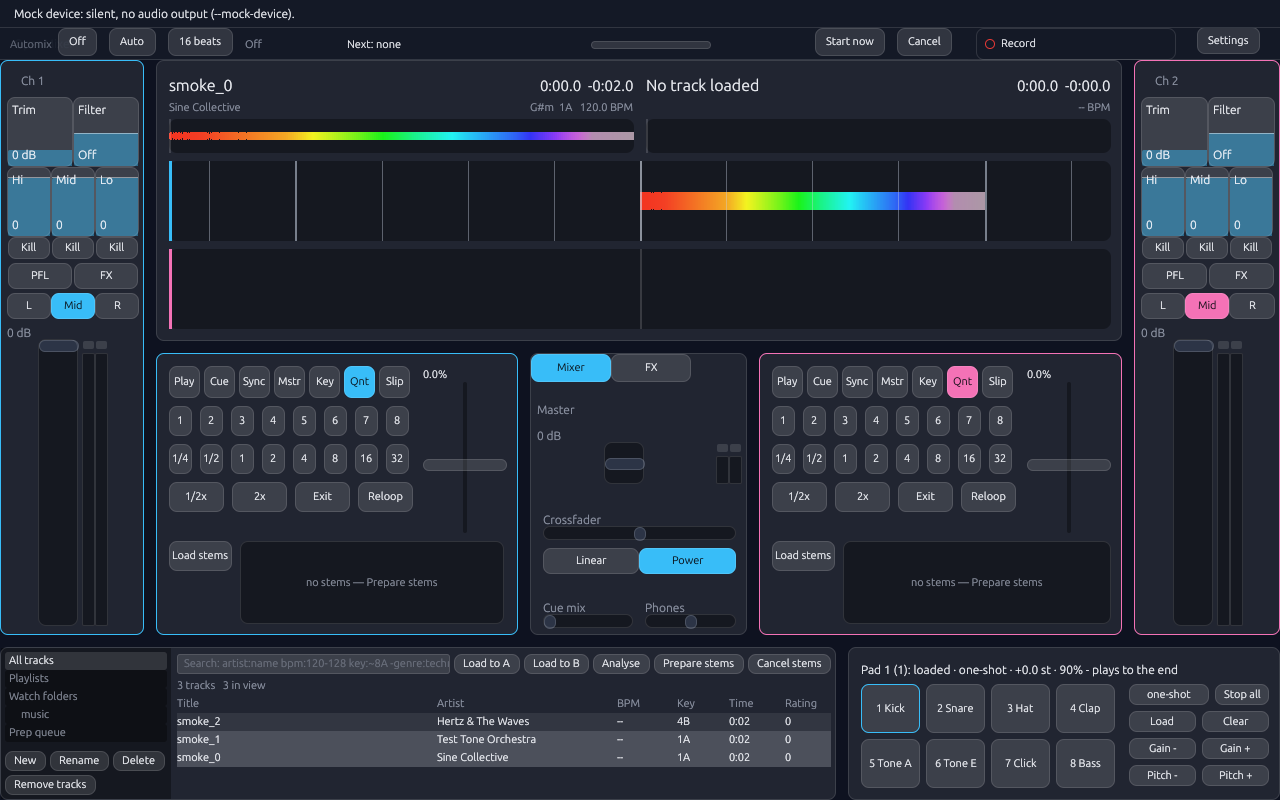
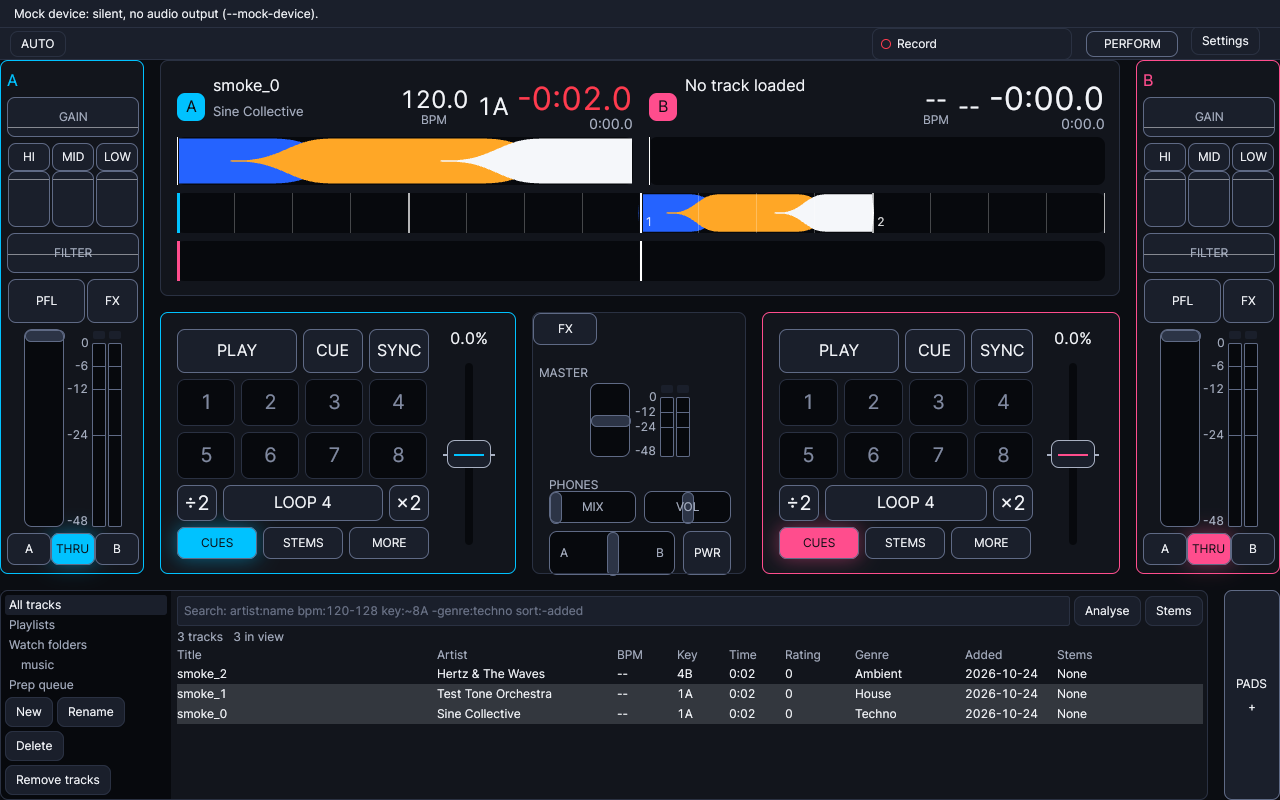
chore: refresh lockfile and dark screenshot, add known-gaps plan and graphify rebuild tool

diff --git a/tools/graphify_rebuild.py b/tools/graphify_rebuild.py
@@ -1,0 +1,202 @@
+#!/usr/bin/env python3
+"""Rebuild graphify-out/ with Rust `use` edges resolved to file nodes.
+
+graphify's Rust extractor records `use` targets as bare path segments (`super`, `om_core`,
+`atomic`), which match no node and are dropped when the graph is built (~1.5k edges here). This
+script re-resolves `crate::`, `super::`, `self::` and workspace-crate imports to module files, then
+rebuilds graph.json, GRAPH_REPORT.md and graph.html. Imports of std/external crates stay dropped.
+
+Run from anywhere with graphify's interpreter, after a `/graphify` run has cached the docs/images:
+  $(cat graphify-out/.graphify_python) tools/graphify_rebuild.py
+
+Community names come from graphify-out/community_labels.json ([{name, members}]); each new
+community takes the name of the saved one it overlaps most (Jaccard >= 0.3), else "Community N".
+Doc/image nodes come from graphify's semantic cache; uncached docs are skipped (re-run /graphify).
+Nested .gitignore/.graphifyignore files are ignored on purpose: graphify applies a nested `*`
+(e.g. .opencode/memory/.gitignore) to the whole tree and detects zero files. Community labels
+are matched by member overlap because ids change when edges change.
+"""
+import json
+import re
+import subprocess
+from pathlib import Path
+
+ROOT = Path(__file__).resolve().parents[1]
+SKIP_DIRS = {"target", ".claude", "graphify-out", "node_modules"}
+
+
+def node_id(rel):
+    return re.sub(r"[^a-z0-9]+", "_", str(Path(rel).with_suffix("")).lower()).strip("_")
+
+
+def crate_map():
+    crates = {}
+    for toml in ROOT.glob("**/Cargo.toml"):
+        if SKIP_DIRS & set(toml.relative_to(ROOT).parts):
+            continue
+        m = re.search(r'^\s*name\s*=\s*"([^"]+)"', toml.read_text(), re.M)
+        if m and (toml.parent / "src").is_dir():
+            crates[m.group(1).replace("-", "_")] = toml.parent / "src"
+    return crates
+
+
+def crate_src(path):
+    for p in path.parents:
+        if p == ROOT:
+            break
+        if (p / "Cargo.toml").exists() and (p / "src").is_dir():
+            return p / "src"
+    return None
+
+
+def module_path(path, src):
+    parts = list(path.relative_to(src).with_suffix("").parts)
+    if parts and parts[-1] in ("mod", "lib", "main"):
+        parts.pop()
+    return parts
+
+
+def resolve_mod(src, segs):
+    """Deepest module file reached by walking segs from the crate root."""
+    cur, found = src, None
+    for s in segs:
+        if (cur / f"{s}.rs").is_file():
+            found, cur = cur / f"{s}.rs", cur / s
+        elif (cur / s / "mod.rs").is_file():
+            found, cur = cur / s / "mod.rs", cur / s
+        else:
+            break
+    if found:
+        return found
+    return next((src / n for n in ("lib.rs", "main.rs") if (src / n).is_file()), None)
+
+
+class Resolver:
+    def __init__(self):
+        self.crates = crate_map()
+        self.lines = {}
+
+    def use_path(self, path, line):
+        ls = self.lines.setdefault(path, path.read_text(errors="ignore").splitlines())
+        buf = ""
+        for i in range(line - 1, min(len(ls), line + 60)):
+            code = ls[i].split("//")[0]
+            buf += " " + code
+            if ";" in code:
+                break
+        m = re.search(r"\buse\s+(?:::)?([\w:]+)", buf)
+        return m.group(1).split("::") if m else None
+
+    def resolve(self, edge):
+        if not edge.get("source_file", "").endswith(".rs"):
+            return None
+        f = ROOT / edge["source_file"]
+        src = crate_src(f)
+        try:
+            line = int(edge["source_location"].lstrip("L"))
+            segs = self.use_path(f, line)
+        except (ValueError, AttributeError, OSError):
+            return None
+        if src is None or not segs:
+            return None
+        head, rest = segs[0], segs[1:]
+        in_src = str(f).startswith(str(src))
+        if head in ("crate", "self", "super"):
+            if not in_src:
+                return None
+            mp = module_path(f, src)
+            base, tsrc = ([], src) if head == "crate" else (mp, src)
+            if head == "super":
+                base = mp[:-1]
+                while rest and rest[0] == "super":
+                    base, rest = base[:-1], rest[1:]
+        elif head in self.crates:
+            base, tsrc = [], self.crates[head]
+        else:
+            return None
+        t = resolve_mod(tsrc, base + rest)
+        return node_id(t.relative_to(ROOT)) if t else None
+
+
+def load_labels(com):
+    """Name each community after the saved label whose members overlap it most."""
+    labels = {c: f"Community {c}" for c in com}
+    path = ROOT / "graphify-out" / "community_labels.json"
+    if not path.is_file():
+        return labels
+    saved = [(e["name"], set(e["members"])) for e in json.loads(path.read_text())]
+    taken = set()
+    pairs = []
+    for c, members in com.items():
+        ms = set(members)
+        for i, (_, old) in enumerate(saved):
+            j = len(ms & old) / len(ms | old)
+            if j >= 0.3:
+                pairs.append((j, c, i))
+    for _, c, i in sorted(pairs, reverse=True):
+        if labels[c].startswith("Community ") and i not in taken:
+            labels[c] = saved[i][0]
+            taken.add(i)
+    return labels
+
+
+def main():
+    from graphify import detect as D
+    from graphify.analyze import god_nodes, suggest_questions, surprising_connections
+    from graphify.build import build_from_json
+    from graphify.cache import check_semantic_cache
+    from graphify.cluster import cluster, score_all
+    from graphify.export import to_json
+    from graphify.extract import extract
+    from graphify.report import generate
+
+    own = D._load_dir_own_ignore
+    D._load_dir_own_ignore = lambda d: own(d) if d.resolve() == ROOT else []
+    det = D.detect(ROOT)
+    ast = extract([Path(f) for f in det["files"]["code"]], cache_root=ROOT)
+
+    ids = {n["id"] for n in ast["nodes"]}
+    res, seen, edges = Resolver(), set(), []
+    fixed = dropped = 0
+    for e in ast["edges"]:
+        if e["target"] in ids:
+            edges.append(e)
+            continue
+        t = res.resolve(e)
+        if t in ids:
+            key = (e["source"], t, e["relation"], e.get("source_location"))
+            if key not in seen:
+                seen.add(key)
+                edges.append(dict(e, target=t))
+                fixed += 1
+        else:
+            dropped += 1
+    print(f"imports: {fixed} resolved, {dropped} external/unresolvable dropped")
+
+    docs = [f for c in ("document", "paper", "image") for f in det["files"].get(c, [])]
+    sn, se, sh, uncached = check_semantic_cache(docs, root=str(ROOT))
+    if uncached:
+        print(f"warning: {len(uncached)} docs/images not cached; run /graphify to extract them")
+    nodes = list(ast["nodes"])
+    have = set(ids)
+    nodes += [n for n in sn if n["id"] not in have and not have.add(n["id"])]
+    ex = {"nodes": nodes, "edges": edges + se, "hyperedges": sh, "input_tokens": 0, "output_tokens": 0}
+
+    out = ROOT / "graphify-out"
+    G = build_from_json(ex, root=str(ROOT), directed=False)
+    if G.number_of_nodes() == 0:
+        raise SystemExit("empty graph")
+    com = cluster(G)
+    labels = load_labels(com)
+    if not to_json(G, com, str(out / "graph.json")):
+        raise SystemExit("refused to shrink graph.json")
+    report = generate(G, com, score_all(G, com), labels, god_nodes(G), surprising_connections(G, com),
+                      det, {"input": 0, "output": 0}, str(ROOT),
+                      suggested_questions=suggest_questions(G, com, labels))
+    (out / "GRAPH_REPORT.md").write_text(report, encoding="utf-8")
+    print(f"graph: {G.number_of_nodes()} nodes, {G.number_of_edges()} edges, {len(com)} communities")
+    subprocess.run(["graphify", "export", "html"], cwd=ROOT, check=False)
+
+
+if __name__ == "__main__":
+    main()

diff --git a/docs/superpowers/plans/2026-10-26-known-gaps.md b/docs/superpowers/plans/2026-10-26-known-gaps.md
@@ -1,0 +1,196 @@
+# Known Gaps Implementation Plan
+
+> \*\*For agentic workers:\*\* REQUIRED SUB-SKILL: Use superpowers:subagent-driven-development (recommended). Steps use checkbox (`- \[ ]`) syntax for tracking.
+
+**Goal:** Close the known gaps that can be built and verified headlessly: a scheduled soak job, automix and auto-enqueue analysis handling, playlist reorder and folders in the UI, artwork display, restyled scroll bars, tables and toggles, an FFmpeg decode fallback, and C-ABI plugin loading, then one docs sync.
+
+**Architecture:** Each task is an independent workstream with its own file ownership, so agents can run in parallel in separate worktrees. Library, engine and view-model logic is built and tested first; the gpui layer only draws from it. Tasks 7 and 8 sit behind an explicit decision gate.
+
+**Tech Stack:** Rust workspace (`crates/om-\*`, `crates/openmixer`), rusqlite (`om-library`), GPUI (`om-ui-gpui`), symphonia (`om-engine`), GitHub Actions (`.github/workflows/rust.yml`).
+
+**Spec:** `ROADMAP.md` ("Known gaps"), `README.md` ("Known gaps, honestly listed"), `TODO.md` sections (A) to (C), `docs/spikes/DECISIONS.md` ("Plugins: in-process only").
+
+## Global Constraints
+
+* Linux is the required signal. Do not add tests that need audio hardware, a display, or the network.
+* Every task ends with `cargo fmt --check`, `cargo clippy --workspace --all-targets -- -D warnings` and `cargo test -p <touched crates>` green.
+* Test-first. Commit per task, message style `feat:`/`fix:`/`docs:`/`ci:`, with the Co-Authored-By trailer.
+* Colours and sizes come from `ThemeTokens` via `om\_ui::style::LookAndFeel`; no literals in gpui files (see "Styling a control" in `agents.md`).
+* Licences: any new dependency must pass `cargo deny` (project is AGPL-3.0).
+* Do not edit `README.md`, `ROADMAP.md`, `TODO.md` or `docs/PROGRESS.md` in tasks 2-9; Task 10 updates them once at the end, so parallel agents never conflict on them.
+* Do not touch files owned by another task (see each task's **Files**). Rebase on `feat/ui-redesign` before the final commit.
+
+## Review Focus
+
+* A track that is never analysed (corrupt file, analysis error): automix and auto-enqueue must give up after a bounded number of tries, not wait or re-enqueue forever (Tasks 3, 4).
+* Moving a playlist folder into its own descendant must be refused, not corrupt the tree or loop (Task 5).
+* Reordering an entry to index 0, to the last index, and to an out-of-range index clamps and keeps positions contiguous (Task 5).
+* A track with no artwork, or artwork the image decoder rejects, shows the placeholder and never panics (Task 6).
+* A file ffmpeg cannot decode, or a machine with no `ffmpeg` binary, returns a typed error and leaves the symphonia path unchanged (Task 7).
+* A plugin library with the wrong ABI version, a missing entry point, or a panicking `on\_load` is skipped with a reason and does not take the host down (Task 8).
+
+\---
+
+### Task 2: Scheduled soak job in CI
+
+**Files:**
+
+* Modify: `.github/workflows/rust.yml`
+
+**Interfaces:**
+
+* Consumes: the `#\[ignore]` soaks `cargo test -p om-audio --test soak -- --ignored --nocapture` (`crates/om-audio/tests/soak.rs:321`) and `cargo test -p openmixer --test ui\_gate -- --ignored` (`crates/openmixer/tests/ui\_gate.rs:287`).
+* Produces: a `soak` job on `schedule` (weekly) and `workflow\_dispatch`.
+* \[ ] **Step 1:** Add `schedule: - cron: "0 3 \* \* 0"` and `workflow\_dispatch:` to `on:`. Keep existing triggers unchanged.
+* \[ ] **Step 2:** Add job `soak` (ubuntu-latest, `timeout-minutes: 40`, `if: github.event\_name != 'pull\_request' \&\& github.event\_name != 'push'`) running both ignored tests, copying the toolchain and cache steps from the `check` job.
+* \[ ] **Step 3:** Validate: `python3 -c "import yaml,sys; yaml.safe\_load(open('.github/workflows/rust.yml'))"`; confirm the `check` job's `if`/triggers are untouched with `git diff`. Expected: valid YAML, diff only adds.
+* \[ ] **Step 4:** Commit `ci: scheduled 10-minute soaks`.
+
+### Task 3: Automix waits for unanalysed tracks
+
+**Files:**
+
+* Modify: `crates/om-automix/src/queue.rs`, `crates/openmixer/src/automix\_queue.rs`
+* Test: `crates/om-automix/src/queue.rs` (unit tests, existing style), `crates/openmixer/tests/automix\_rig/mod.rs`
+
+**Interfaces:**
+
+* Consumes: `select\_next(...) -> Selection` where `Selection.skipped: Vec<(i64, SkipReason)>` and `SkipReason::NotAnalysed`; `PrepQueue` in `crates/om-library/src/prep\_queue.rs`.
+* Produces: `Selection.needs\_analysis: Vec<i64>` (track ids skipped as `NotAnalysed`, in candidate order) and `LibraryQueue::pending\_analysis(\&self) -> \&\[i64]`. `LibraryQueue` submits those ids to the prep queue once per id per session and retries them on the next `next\_track` call.
+* \[ ] **Step 1:** Write failing test `unanalysed\_candidates\_are\_reported\_for\_analysis` in `queue.rs`: tracks 4 and 6 unanalysed, 5 analysed; assert `sel.needs\_analysis == vec!\[4, 6]` and that `sel.track` is 5.
+* \[ ] **Step 2:** Run `cargo test -p om-automix unanalysed\_candidates` ; expect FAIL (field missing).
+* \[ ] **Step 3:** Add `needs\_analysis` to `Selection` in `crates/om-automix/src/queue.rs`, filled where `SkipReason::NotAnalysed` is pushed (line \~138). Run the test; expect PASS.
+* \[ ] **Step 4:** Failing test in the automix rig, `queue\_submits\_unanalysed\_tracks\_once`: a library where every track is unanalysed; call `next\_track` three times; assert the prep queue holds each id exactly once and `pending\_analysis()` lists them. Then mark one analysed and assert the next call returns it.
+* \[ ] **Step 5:** Implement the submit-once set and retry in `LibraryQueue` (`crates/openmixer/src/automix\_queue.rs`). Give up on an id after 3 submissions and add it to `last\_error()` text. Run `cargo test -p openmixer automix`; expect PASS.
+* \[ ] **Step 6:** Commit `feat: automix requests analysis for tracks it had to skip`.
+
+### Task 4: Auto-enqueue after a library scan
+
+**Files:**
+
+* Modify: `crates/om-library/src/ingest.rs`, `crates/om-library/src/prep\_queue.rs` (only if a bulk helper is needed)
+* Test: `crates/om-library/tests/library\_prep\_queue.rs`
+
+**Interfaces:**
+
+* Consumes: `ingest\_folder(...)` in `crates/om-library/src/ingest.rs:72` and its report; the prep queue API in `prep\_queue.rs` (read it first: use its existing enqueue method, do not add a second path).
+* Produces: after a successful `ingest\_folder`, every track the scan inserted or changed and that has no analysis is enqueued, exactly once; `IngestReport` gains `enqueued: usize`.
+* \[ ] **Step 1:** Failing test `scan\_enqueues\_new\_unanalysed\_tracks\_once` in `library\_prep\_queue.rs`: ingest a temp folder with 3 generated files (fixture helpers in `om-testing`), assert queue length 3 and `report.enqueued == 3`; ingest again, assert still 3 and `enqueued == 0`.
+* \[ ] **Step 2:** Run `cargo test -p om-library --test library\_prep\_queue scan\_enqueues`; expect FAIL.
+* \[ ] **Step 3:** Enqueue inside the ingest transaction's success path; skip tracks already queued or analysed. Run the test; expect PASS.
+* \[ ] **Step 4:** Add test `scan\_of\_missing\_folder\_enqueues\_nothing` (non-directory path errors, queue empty). Expect PASS.
+* \[ ] **Step 5:** Commit `feat: library scan enqueues new tracks for analysis`.
+
+### Task 5: Playlist reorder and nested folders in the UI
+
+**Files:**
+
+* Modify: `crates/om-ui/src/library/browser.rs`, `crates/om-ui/src/sidebar.rs`, `crates/om-ui/src/library/services.rs`, `crates/om-library/src/playlist\_dao.rs` (cycle guard only)
+* Modify (draw only, last): the gpui sidebar and library view files under `crates/om-ui-gpui/src/`
+* Test: `crates/om-ui/tests/`, `crates/om-library/tests/`
+
+**Interfaces:**
+
+* Consumes: `PlaylistDao::create(name, parent\_id, is\_folder) -> Result<i64>`, `move\_node(id, new\_parent\_id, index)`, `move\_entry(entry\_id, new\_index)`, `entries(playlist\_id)`, `children(parent\_id)` (all in `playlist\_dao.rs`). The DAO already supports folders and reorder; the gap is the view-model and the view.
+* Produces: `LibraryBrowser::move\_entry(entry\_id: i64, new\_index: i32)`, `LibraryBrowser::new\_folder(parent: Option<i64>, name: \&str) -> i64`, `LibraryBrowser::move\_playlist(id: i64, new\_parent: Option<i64>, index: i32)`, and `PlaylistDao::move\_node` returning an error when `new\_parent` is `id` or a descendant of `id`.
+* \[ ] **Step 1:** Failing DAO test `move\_node\_into\_own\_descendant\_is\_refused` (folder A contains folder B; `move\_node(A, Some(B), 0)` is `Err`; tree unchanged).
+* \[ ] **Step 2:** Run `cargo test -p om-library move\_node\_into\_own`; expect FAIL. Implement the guard by walking up `parent\_id` from `new\_parent`; run; expect PASS.
+* \[ ] **Step 3:** Failing view-model tests in `crates/om-ui/tests/`: `entry\_moves\_to\_first\_last\_and\_clamped\_index` (positions stay `0..n` contiguous), `new\_folder\_nests\_under\_parent`, `playlist\_moves\_between\_folders`. Run; expect FAIL.
+* \[ ] **Step 4:** Implement the three `LibraryBrowser` methods over the DAO; the sidebar tree builder must emit nested folder nodes (extend `sidebar.rs` `SidebarKind` with `Folder` if absent). Run; expect PASS.
+* \[ ] **Step 5:** Wire gpui: drag an entry row to reorder, "New folder" sidebar button, drag a playlist onto a folder. Draw only; all decisions through the methods above. Run `cargo build -p om-ui-gpui` and `cargo run -p openmixer -- --smoke --headless`; expect exit 0.
+* \[ ] **Step 6:** Commit `feat: playlist reorder and nested folders`.
+
+### Task 6: Show artwork in the UI
+
+**Files:**
+
+* Create: `crates/om-ui/src/artwork\_binding.rs`
+* Modify: `crates/om-ui/src/lib.rs`, `crates/om-ui/src/library/services.rs`; gpui: deck card and track detail view under `crates/om-ui-gpui/src/`
+* Test: `crates/om-ui/tests/artwork\_binding.rs`
+
+**Interfaces:**
+
+* Consumes: `ArtworkDao::get(track\_id) -> Result<Option<ArtworkRecord>>` (`crates/om-library/src/artwork\_dao.rs:95`; record has `mime` and `data`), `image\_size(\&\[u8]) -> Option<(u32, u32)>`.
+* Produces: `ArtworkView` enum `{ None, Image { mime: String, data: Arc<\[u8]>, width: u32, height: u32 } }` and `fn artwork\_for(lib: \&impl ArtworkSource, track\_id: i64) -> ArtworkView`, with a small LRU cache (16 entries) keyed by track id. `ArtworkSource` is a trait with `fn artwork(\&self, track\_id: i64) -> Result<Option<ArtworkRecord>, LibraryError>` so tests use a stub.
+* \[ ] **Step 1:** Failing tests in `artwork\_binding.rs`: `missing\_artwork\_is\_none`, `garbage\_bytes\_are\_none\_not\_a\_panic` (data `\[0, 1, 2]`, `image\_size` is None), `valid\_png\_reports\_size`, `cache\_serves\_second\_call\_without\_a\_query` (stub counts calls). Run; expect FAIL.
+* \[ ] **Step 2:** Implement `artwork\_binding.rs` as specified. Run; expect PASS.
+* \[ ] **Step 3:** Load on a worker, never on the UI thread (follow the `TrackLoader` pattern in `crates/om-ui/src/library/track\_loader.rs`). gpui draws `ArtworkView::Image` with the image element and a token-coloured placeholder for `None`.
+* \[ ] **Step 4:** Run `cargo test -p om-ui artwork` and `cargo run -p openmixer -- --smoke --headless`; expect pass. Commit `feat: show cover art`.
+
+### Task 7: Restyle scroll bars, tables and toggles
+
+**Files:**
+
+* Modify: `crates/om-ui/src/style.rs`; gpui scroll, table and toggle drawing under `crates/om-ui-gpui/src/`
+* Test: `crates/om-ui/src/style.rs` tests (existing `entries()` contrast tests)
+
+**Interfaces:**
+
+* Consumes: `LookAndFeel::from\_tokens(\&ThemeTokens)`, `LookAndFeel::entries() -> Vec<(\&'static str, ControlStyle)>`, `ControlStyle::contrast\_on`.
+* Produces: `ScrollBarStyle { track: ControlStyle, thumb: ControlStyle, thumb\_hover: ControlStyle, width: f32 }`, `TableStyle { header: ControlStyle, row: ControlStyle, row\_alt: ControlStyle, row\_selected: ControlStyle, divider: SeparatorStyle }`, `ToggleStyle { off: ControlStyle, on: ControlStyle, knob: ControlStyle }`, fields `scroll\_bar`, `table`, `toggle` on `LookAndFeel`, all included in `entries()`.
+* \[ ] **Step 1:** Failing tests: `every\_theme\_gives\_scroll\_table\_toggle\_readable\_contrast` (each `entries()` item added by this task passes the same contrast floor the existing entries use, in both bundled themes), `thumb\_is\_visible\_against\_track`. Run `cargo test -p om-ui style`; expect FAIL.
+* \[ ] **Step 2:** Add the three structs and derive them from tokens in `from\_tokens`; no new token fields unless a theme lacks a needed colour (then add to both `resources/themes/\*` files). Run; expect PASS.
+* \[ ] **Step 3:** Replace the default scroll bar, table and toggle paint in gpui with draws from `LookAndFeel`. Add the `old-literals` style test pattern if the repo has one (`labels::channel\_labels` commit) so no colour literal remains in the touched files.
+* \[ ] **Step 4:** `cargo build -p om-ui-gpui`, headless smoke, and regenerate no screenshots (by-eye check stays with the maintainer). Commit `feat: restyle scroll bars, tables and toggles`.
+
+### Task 8: FFmpeg decode fallback (Todo 8b)
+
+**Decision (recommended, flag if you disagree):** run the `ffmpeg` executable as a subprocess producing raw `f32le` PCM on stdout, instead of linking `ffmpeg-next`. No link-time dependency, no GPL/LGPL linking question for the AGPL project, no CI system packages.
+
+**Files:**
+
+* Create: `crates/om-engine/src/decode\_ffmpeg.rs`
+* Modify: `crates/om-engine/src/lib.rs`, `crates/om-engine/Cargo.toml` (feature `ffmpeg`, off by default, no new crates)
+* Test: `crates/om-engine/tests/decode\_ffmpeg.rs`
+
+**Interfaces:**
+
+* Consumes: the existing symphonia decode entry point in `om-engine` (locate it first: `grep -rn "symphonia" crates/om-engine/src`); the file-load path calls it and must try ffmpeg only when it returns an unsupported-format error.
+* Produces: `fn decode\_with\_ffmpeg(path: \&Path, target\_rate: u32) -> Result<DecodedAudio, DecodeError>` (use the engine's existing decoded-audio and error types; add `DecodeError::FfmpegMissing` and `DecodeError::FfmpegFailed(String)`), and `fn ffmpeg\_available() -> bool`.
+* \[ ] **Step 1:** Failing tests: `ffmpeg\_available\_is\_false\_for\_a\_bogus\_binary\_name` (via an overridable `OPENMIXER\_FFMPEG` env var path), `missing\_binary\_is\_a\_typed\_error`, and an integration test skipped with a printed reason when `ffmpeg\_available()` is false: `decodes\_a\_wav\_to\_the\_same\_frames\_as\_symphonia` (frame count equal, samples within 1e-3). Run `cargo test -p om-engine --features ffmpeg decode\_ffmpeg`; expect FAIL.
+* \[ ] **Step 2:** Implement with `std::process::Command` (`-v error -i <path> -f f32le -ac 2 -ar <rate> -`), read stdout fully, map non-zero exit to `FfmpegFailed(stderr)`. Never build a shell string; pass args as separate arguments. Run; expect PASS.
+* \[ ] **Step 3:** Hook the fallback into the load path behind `#\[cfg(feature = "ffmpeg")]`; test that an unsupported-extension file falls back, and that with the feature off behaviour is unchanged (`cargo test -p om-engine` without the feature).
+* \[ ] **Step 4:** Commit `feat: optional ffmpeg decode fallback`.
+
+### Task 9: Plugin dynamic loading (Todo 10a)
+
+**Gate:** this task starts only after the user confirms the decision. Recommended: a **C ABI** (`extern "C"` entry points and a versioned `#\[repr(C)]` function table) loaded with `libloading`. WASM is heavier (runtime dependency, host-call overhead on the audio path) and source-only leaves the gap open. Step 1 records the decision in `docs/spikes/DECISIONS.md`; the user reviews it before Step 2.
+
+**Files:**
+
+* Create: `crates/om-plugins/src/abi.rs`, `examples/plugins/gain-plugin-cdylib/` (a cdylib exporting the table)
+* Modify: `crates/om-plugins/src/loader.rs`, `crates/om-plugins/Cargo.toml` (`libloading`), `docs/spikes/DECISIONS.md`, `deny.toml` if needed
+* Test: `crates/om-plugins/tests/dynamic\_load.rs`
+
+**Interfaces:**
+
+* Consumes: `Plugin` and `PluginInfo` in `crates/om-plugins/src/api.rs`, `PluginError::DynamicLoadingUnsupported`, `PluginLoader::load(path) -> Result<Box<dyn Plugin>, PluginError>` and `candidates(dir)`.
+* Produces: `pub const PLUGIN\_ABI\_VERSION: u32`; `#\[repr(C)] pub struct PluginVTable { abi\_version: u32, info: extern "C" fn(\*mut c\_char, usize), create: extern "C" fn() -> \*mut c\_void, destroy: extern "C" fn(\*mut c\_void), process: extern "C" fn(\*mut c\_void, \*mut f32, usize) }`; exported symbol `openmixer\_plugin\_entry` returning `\*const PluginVTable`. `PluginError::BadAbi { found: u32, expected: u32 }` and `PluginError::MissingEntry(String)`.
+* \[ ] **Step 1:** Write the ADR text into `DECISIONS.md` (C ABI, version field, ownership rules: the host owns the buffer, the plugin never retains pointers past `process`, the library is never unloaded while an instance lives). Stop and ask the user to confirm.
+* \[ ] **Step 2:** Failing tests in `dynamic\_load.rs`, building the example cdylib in a temp dir: `loads\_example\_plugin\_and\_processes\_gain`, `wrong\_abi\_version\_is\_bad\_abi`, `library\_without\_entry\_is\_missing\_entry`, `panic\_in\_create\_is\_contained` (wrap each FFI call in `catch\_unwind`). Run; expect FAIL.
+* \[ ] **Step 3:** Implement `abi.rs` and `PluginLoader::load` (the only `unsafe` in the crate; add a `// SAFETY:` comment on each block). Keep `SHARED\_LIBRARY\_EXTENSIONS`. Run; expect PASS.
+* \[ ] **Step 4:** Plugins page lists loaded vs skipped-with-reason (existing page already shows skipped; change the text only). Update the stub doc comment at the top of `loader.rs`. Commit `feat: load C-ABI plugins from shared libraries`.
+
+\### Task 10: Sync docs (last)
+
+Runs after every other task has merged, so each doc line is edited once.
+
+**Files:**
+- Modify: `README.md` (Known gaps list), `ROADMAP.md` (Known gaps), `TODO.md` (sections A-C), `docs/PROGRESS.md`
+
+**Interfaces:**
+- Consumes: the merged state of tasks 2-9. Which of them landed decides each line; a task that was dropped or gated keeps its gap line.
+- Produces: nothing code-level.
+
+- [ ] **Step 1:** Verify each claim in `TODO.md` (A) "Library (Phase L)" against the code: `grep -n "play_history\|artwork\|tracks_fts" crates/om-library/src/migrations.rs` and the hotcue save-back in `crates/om-library/src/cue_dao.rs`. The README currently lists artwork, FTS, play history and hotcue save-back as gaps; they are done.
+- [ ] **Step 2:** Remove the gap lines closed by the merged tasks: automix analysis wait (3) and Todo 38 wording, auto-enqueue (4), playlist reorder and folders, Todo 28 (5), artwork in the UI (6), scroll bars, tables, toggles, Todo 25 (7), FFmpeg Todo 8b (8), plugin loading Todo 10a (9).
+- [ ] **Step 3:** Make `README.md` and `ROADMAP.md` list the same remaining gaps (they differ today).
+- [ ] **Step 4:** Run `python3 tools/progress_heatmap.py --check`. Expected: exit 0.
+- [ ] **Step 5:** Commit `docs: update known gaps`.
+
+---
+
+## Execution order
+
+Independent, can run in parallel: Tasks 2, 3, 4, 5, 6, 7, 8. Task 10 (docs) runs last, after everything else has merged. Shared files to watch: Tasks 5, 6 and 7 all touch `crates/om-ui-gpui/src/`, so land their view-model steps first and do the gpui draw steps one at a time. Task 9 waits for the decision gate.
+
